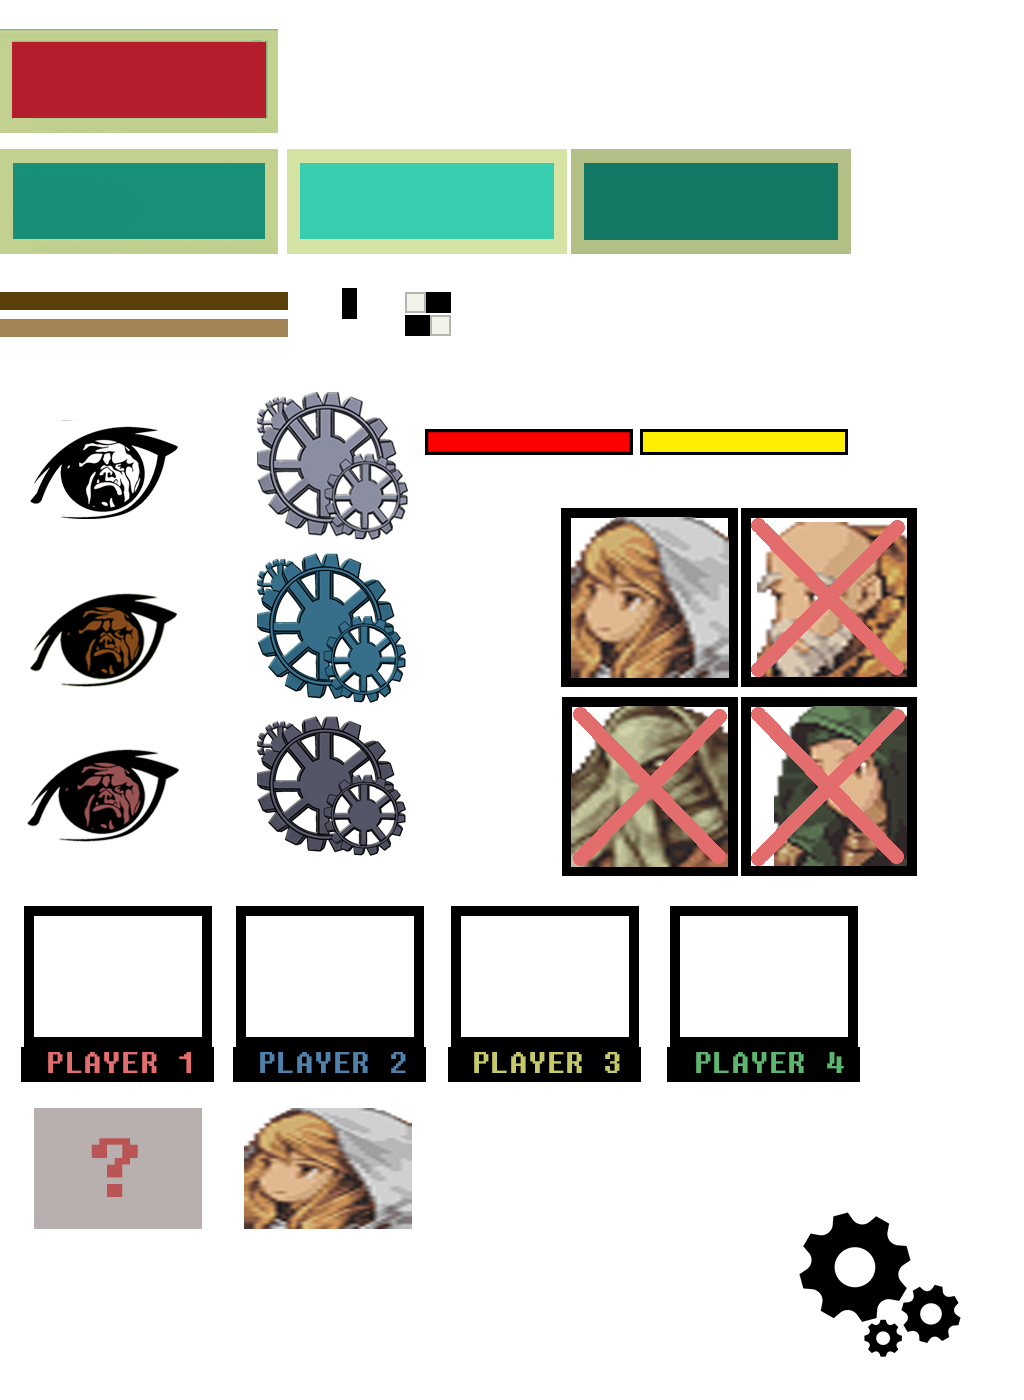
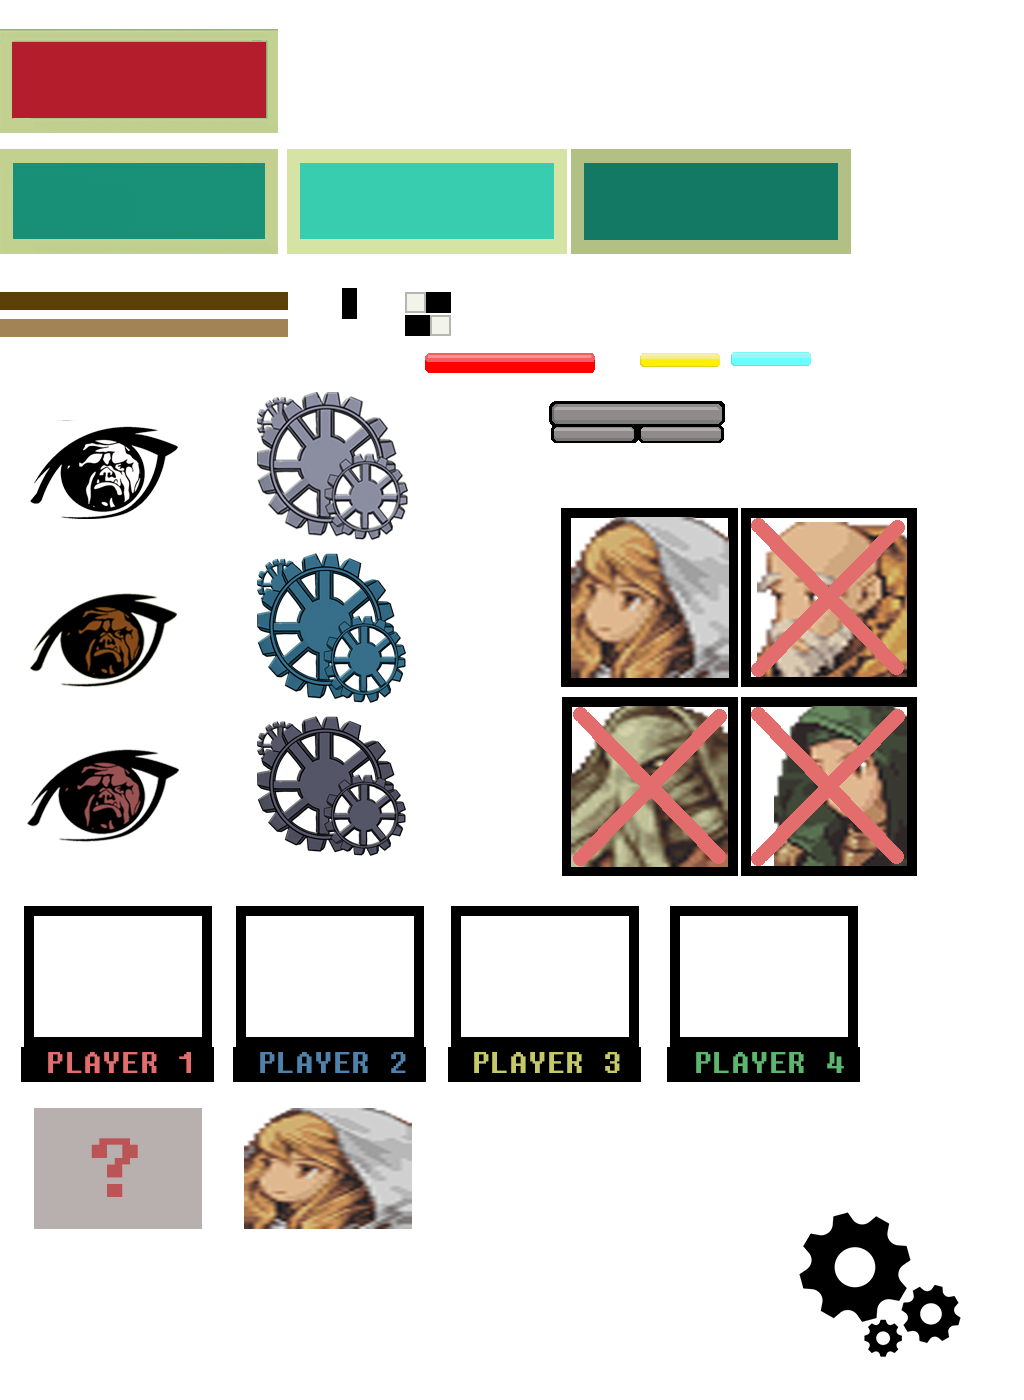
Added new UI art for bars + added shield bar

Changed region(s): [[0.4062, 0.2457, 0.8438, 0.3379]]

diff --git a/FantasyBrawl_Project/Motor2D/j1UIScene.cpp b/FantasyBrawl_Project/Motor2D/j1UIScene.cpp
@@ -130,33 +130,95 @@ bool j1UIScene::Start()
 
 	menu* ingameMenu = new menu(INGAME_MENU);
 	{
-		UI_element* hp_bar_player1 = App->gui->createImageFromAtlas(App->scene->player1->Entityinfo.position.x, App->scene->player1->Entityinfo.position.y,  {424, 428, 209, 27}, this);
+		//player1
+		UI_element* hp_bar_player1 = App->gui->createImageFromAtlas(App->scene->player1->Entityinfo.position.x, App->scene->player1->Entityinfo.position.y,  {424, 352, 171, 21}, this);
 		hp_bar1 = hp_bar_player1;
 
-		UI_element* sp_bar_player1 = App->gui->createImageFromAtlas(App->scene->player1->Entityinfo.position.x, App->scene->player1->Entityinfo.position.y, { 639, 428, 212, 27 }, this);
+		UI_element* sp_bar_player1 = App->gui->createImageFromAtlas(App->scene->player1->Entityinfo.position.x, App->scene->player1->Entityinfo.position.y, { 639, 352, 81, 21 }, this);
 		sp_bar1 = sp_bar_player1;
 
-		UI_element* hp_bar_player2 = App->gui->createImageFromAtlas(App->scene->player2->Entityinfo.position.x, App->scene->player2->Entityinfo.position.y, { 424, 428, 209, 27 }, this);
+		UI_element* shield_bar_player1 = App->gui->createImageFromAtlas(App->scene->player1->Entityinfo.position.x, App->scene->player1->Entityinfo.position.y, { 730, 351, 81, 21 }, this);
+		shield_bar1 = shield_bar_player1;
+
+		UI_element* hp_capsule_bar1 = App->gui->createImageFromAtlas(App->scene->player1->Entityinfo.position.x, App->scene->player1->Entityinfo.position.y, { 548, 400, 177, 25 }, this);
+		hp_capsule1 = hp_capsule_bar1;
+
+		UI_element* sp_capsule_bar1 = App->gui->createImageFromAtlas(App->scene->player1->Entityinfo.position.x, App->scene->player1->Entityinfo.position.y, { 550, 426, 88, 17 }, this);
+		sp_capsule1 = sp_capsule_bar1;
+
+		UI_element* shield_capsule_bar1 = App->gui->createImageFromAtlas(App->scene->player1->Entityinfo.position.x, App->scene->player1->Entityinfo.position.y, { 638, 426, 86, 17 }, this);
+		shield_capsule1 = shield_capsule_bar1;
+
+		//player2
+		UI_element* hp_bar_player2 = App->gui->createImageFromAtlas(App->scene->player2->Entityinfo.position.x, App->scene->player2->Entityinfo.position.y, { 424, 352, 171, 21 }, this);
 		hp_bar2 = hp_bar_player2;
 
-		UI_element* sp_bar_player2 = App->gui->createImageFromAtlas(App->scene->player2->Entityinfo.position.x, App->scene->player2->Entityinfo.position.y, { 639, 428, 212, 27 }, this);
+		UI_element* sp_bar_player2 = App->gui->createImageFromAtlas(App->scene->player2->Entityinfo.position.x, App->scene->player2->Entityinfo.position.y, { 639, 352, 81, 21 }, this);
 		sp_bar2 = sp_bar_player2;
 
+		UI_element* shield_bar_player2 = App->gui->createImageFromAtlas(App->scene->player2->Entityinfo.position.x, App->scene->player1->Entityinfo.position.y, { 730, 351, 81, 21 }, this);
+		shield_bar2 = shield_bar_player2;
 
-		UI_element* hp_bar_player3 = App->gui->createImageFromAtlas(App->scene->player3->Entityinfo.position.x, App->scene->player3->Entityinfo.position.y, { 424, 428, 209, 27 }, this);
+		UI_element* hp_capsule_bar2 = App->gui->createImageFromAtlas(App->scene->player2->Entityinfo.position.x, App->scene->player2->Entityinfo.position.y, { 548, 400, 177, 25 }, this);
+		hp_capsule2 = hp_capsule_bar2;
+
+		UI_element* sp_capsule_bar2 = App->gui->createImageFromAtlas(App->scene->player2->Entityinfo.position.x, App->scene->player1->Entityinfo.position.y, { 550, 426, 88, 17 }, this);
+		sp_capsule2 = sp_capsule_bar2;
+
+		UI_element* shield_capsule_bar2 = App->gui->createImageFromAtlas(App->scene->player2->Entityinfo.position.x, App->scene->player1->Entityinfo.position.y, { 638, 426, 86, 17 }, this);
+		shield_capsule2 = shield_capsule_bar2;
+
+		//player3
+		UI_element* hp_bar_player3 = App->gui->createImageFromAtlas(App->scene->player3->Entityinfo.position.x, App->scene->player3->Entityinfo.position.y, { 424, 352, 171, 21 }, this);
 		hp_bar3 = hp_bar_player3;
 
-		UI_element* sp_bar_player3 = App->gui->createImageFromAtlas(App->scene->player3->Entityinfo.position.x, App->scene->player3->Entityinfo.position.y, { 639, 428, 212, 27 }, this);
+		UI_element* sp_bar_player3 = App->gui->createImageFromAtlas(App->scene->player3->Entityinfo.position.x, App->scene->player3->Entityinfo.position.y, { 639, 352, 81, 21 }, this);
 		sp_bar3 = sp_bar_player3;
 
-		UI_element* hp_bar_player4 = App->gui->createImageFromAtlas(App->scene->player4->Entityinfo.position.x, App->scene->player4->Entityinfo.position.y, { 424, 428, 209, 27 }, this);
+		UI_element* shield_bar_player3 = App->gui->createImageFromAtlas(App->scene->player3->Entityinfo.position.x, App->scene->player1->Entityinfo.position.y, { 730, 351, 81, 21 }, this);
+		shield_bar3 = shield_bar_player3;
+
+		UI_element* hp_capsule_bar3 = App->gui->createImageFromAtlas(App->scene->player3->Entityinfo.position.x, App->scene->player3->Entityinfo.position.y, { 548, 400, 177, 25 }, this);
+		hp_capsule3 = hp_capsule_bar3;
+
+		UI_element* sp_capsule_bar3 = App->gui->createImageFromAtlas(App->scene->player3->Entityinfo.position.x, App->scene->player1->Entityinfo.position.y, { 550, 426, 88, 17 }, this);
+		sp_capsule3 = sp_capsule_bar3;
+
+		UI_element* shield_capsule_bar3 = App->gui->createImageFromAtlas(App->scene->player3->Entityinfo.position.x, App->scene->player1->Entityinfo.position.y, { 638, 426, 86, 17 }, this);
+		shield_capsule3 = shield_capsule_bar3;
+
+		//player4
+		UI_element* hp_bar_player4 = App->gui->createImageFromAtlas(App->scene->player4->Entityinfo.position.x, App->scene->player4->Entityinfo.position.y, { 424, 352, 171, 21 }, this);
 		hp_bar4 = hp_bar_player4;
 
-		UI_element* sp_bar_player4 = App->gui->createImageFromAtlas(App->scene->player4->Entityinfo.position.x, App->scene->player4->Entityinfo.position.y, { 639, 428, 212, 27 }, this);
+		UI_element* sp_bar_player4 = App->gui->createImageFromAtlas(App->scene->player4->Entityinfo.position.x, App->scene->player4->Entityinfo.position.y, { 639, 352, 81, 21 }, this);
 		sp_bar4 = sp_bar_player4;
 
+		UI_element* shield_bar_player4 = App->gui->createImageFromAtlas(App->scene->player4->Entityinfo.position.x, App->scene->player1->Entityinfo.position.y, { 730, 351, 81, 21 }, this);
+		shield_bar4 = shield_bar_player4;
+
+		UI_element* hp_capsule_bar4 = App->gui->createImageFromAtlas(App->scene->player4->Entityinfo.position.x, App->scene->player4->Entityinfo.position.y, { 548, 400, 177, 25 }, this);
+		hp_capsule4 = hp_capsule_bar4;
+
+		UI_element* sp_capsule_bar4 = App->gui->createImageFromAtlas(App->scene->player4->Entityinfo.position.x, App->scene->player1->Entityinfo.position.y, { 550, 426, 88, 17 }, this);
+		sp_capsule4 = sp_capsule_bar4;
+
+		UI_element* shield_capsule_bar4 = App->gui->createImageFromAtlas(App->scene->player4->Entityinfo.position.x, App->scene->player1->Entityinfo.position.y, { 638, 426, 86, 17 }, this);
+		shield_capsule4 = shield_capsule_bar4;
 		
 
+		ingameMenu->elements.push_back(hp_capsule_bar1);
+		ingameMenu->elements.push_back(hp_capsule_bar2);
+		ingameMenu->elements.push_back(hp_capsule_bar3);
+		ingameMenu->elements.push_back(hp_capsule_bar4);
+		ingameMenu->elements.push_back(sp_capsule_bar1);
+		ingameMenu->elements.push_back(sp_capsule_bar2);
+		ingameMenu->elements.push_back(sp_capsule_bar3);
+		ingameMenu->elements.push_back(sp_capsule_bar4);
+		ingameMenu->elements.push_back(shield_capsule_bar1);
+		ingameMenu->elements.push_back(shield_capsule_bar2);
+		ingameMenu->elements.push_back(shield_capsule_bar3);
+		ingameMenu->elements.push_back(shield_capsule_bar4);
 		ingameMenu->elements.push_back(hp_bar_player1);
 		ingameMenu->elements.push_back(hp_bar_player2);
 		ingameMenu->elements.push_back(hp_bar_player3);
@@ -165,6 +227,10 @@ bool j1UIScene::Start()
 		ingameMenu->elements.push_back(sp_bar_player2);
 		ingameMenu->elements.push_back(sp_bar_player3);
 		ingameMenu->elements.push_back(sp_bar_player4);
+		ingameMenu->elements.push_back(shield_bar_player1);
+		ingameMenu->elements.push_back(shield_bar_player2);
+		ingameMenu->elements.push_back(shield_bar_player3);
+		ingameMenu->elements.push_back(shield_bar_player4);
 		menus.push_back(ingameMenu);
 
 	}
@@ -392,7 +458,37 @@ bool j1UIScene::Update(float dt)
 	{
 		App->on_GamePause = true;
 	}
-		
+	
+	//UPDATING HP CAPSULES POSITION
+	hp_capsule1->localPosition.x = App->scene->player1->Entityinfo.position.x - (int)(App->scene->player1->Entityinfo.entitycoll->rect.w * 4.25f  * scale) -3;
+	hp_capsule1->localPosition.y = App->scene->player1->Entityinfo.position.y - 103;
+	hp_capsule2->localPosition.x = App->scene->player2->Entityinfo.position.x - (int)(App->scene->player2->Entityinfo.entitycoll->rect.w * 4.25f  * scale) -3;
+	hp_capsule2->localPosition.y = App->scene->player2->Entityinfo.position.y - 103;
+	hp_capsule3->localPosition.x = App->scene->player3->Entityinfo.position.x - (int)(App->scene->player3->Entityinfo.entitycoll->rect.w * 4.25f  * scale) -3;
+	hp_capsule3->localPosition.y = App->scene->player3->Entityinfo.position.y - 103;
+	hp_capsule4->localPosition.x = App->scene->player4->Entityinfo.position.x - (int)(App->scene->player4->Entityinfo.entitycoll->rect.w * 4.25f  * scale) -3;
+	hp_capsule4->localPosition.y = App->scene->player4->Entityinfo.position.y - 103;
+
+	//UPDATING SP CAPSULES POSITION
+	sp_capsule1->localPosition.x = App->scene->player1->Entityinfo.position.x - (int)(App->scene->player1->Entityinfo.entitycoll->rect.w * 4.25f  * scale) -4;
+	sp_capsule1->localPosition.y = App->scene->player1->Entityinfo.position.y - 78;
+	sp_capsule2->localPosition.x = App->scene->player2->Entityinfo.position.x - (int)(App->scene->player2->Entityinfo.entitycoll->rect.w * 4.25f  * scale) - 4;
+	sp_capsule2->localPosition.y = App->scene->player2->Entityinfo.position.y - 78;
+	sp_capsule3->localPosition.x = App->scene->player3->Entityinfo.position.x - (int)(App->scene->player3->Entityinfo.entitycoll->rect.w * 4.25f  * scale) - 4;
+	sp_capsule3->localPosition.y = App->scene->player3->Entityinfo.position.y - 78;
+	sp_capsule4->localPosition.x = App->scene->player4->Entityinfo.position.x - (int)(App->scene->player4->Entityinfo.entitycoll->rect.w * 4.25f  * scale) - 4;
+	sp_capsule4->localPosition.y = App->scene->player4->Entityinfo.position.y - 78;
+
+	//UPDATING SHIELD CAPSULES POSITION
+	shield_capsule1->localPosition.x = App->scene->player1->Entityinfo.position.x - (int)(App->scene->player1->Entityinfo.entitycoll->rect.w * 4.25f  * scale) + 84;
+	shield_capsule1->localPosition.y = App->scene->player1->Entityinfo.position.y - 78;
+	shield_capsule2->localPosition.x = App->scene->player2->Entityinfo.position.x - (int)(App->scene->player2->Entityinfo.entitycoll->rect.w * 4.25f  * scale) + 84;
+	shield_capsule2->localPosition.y = App->scene->player2->Entityinfo.position.y - 78;
+	shield_capsule3->localPosition.x = App->scene->player3->Entityinfo.position.x - (int)(App->scene->player3->Entityinfo.entitycoll->rect.w * 4.25f  * scale) + 84;
+	shield_capsule3->localPosition.y = App->scene->player3->Entityinfo.position.y - 78;
+	shield_capsule4->localPosition.x = App->scene->player4->Entityinfo.position.x - (int)(App->scene->player4->Entityinfo.entitycoll->rect.w * 4.25f  * scale) + 84;
+	shield_capsule4->localPosition.y = App->scene->player4->Entityinfo.position.y - 78;
+
 	//UPDATING HP BARS POSITION
 	hp_bar1->localPosition.x = App->scene->player1->Entityinfo.position.x - (int)(App->scene->player1->Entityinfo.entitycoll->rect.w * 4.25f  * scale);
 	hp_bar1->localPosition.y = App->scene->player1->Entityinfo.position.y - 100;				 
@@ -405,13 +501,25 @@ bool j1UIScene::Update(float dt)
 																								 
 	//UPDATING SP BARS POSITION																	 
 	sp_bar1->localPosition.x = App->scene->player1->Entityinfo.position.x - (int)(App->scene->player1->Entityinfo.entitycoll->rect.w * 4.25f  * scale);
-	sp_bar1->localPosition.y = App->scene->player1->Entityinfo.position.y - 75;				 
+	sp_bar1->localPosition.y = App->scene->player1->Entityinfo.position.y - 78;				 
 	sp_bar2->localPosition.x = App->scene->player2->Entityinfo.position.x - (int)(App->scene->player2->Entityinfo.entitycoll->rect.w * 4.25f  * scale);
-	sp_bar2->localPosition.y = App->scene->player2->Entityinfo.position.y - 75;				 
+	sp_bar2->localPosition.y = App->scene->player2->Entityinfo.position.y - 78;				 
 	sp_bar3->localPosition.x = App->scene->player3->Entityinfo.position.x - (int)(App->scene->player3->Entityinfo.entitycoll->rect.w * 4.25f  * scale);
-	sp_bar3->localPosition.y = App->scene->player3->Entityinfo.position.y - 75;				 
+	sp_bar3->localPosition.y = App->scene->player3->Entityinfo.position.y - 78;				 
 	sp_bar4->localPosition.x = App->scene->player4->Entityinfo.position.x - (int)(App->scene->player4->Entityinfo.entitycoll->rect.w * 4.25f  * scale);
-	sp_bar4->localPosition.y = App->scene->player4->Entityinfo.position.y - 75;
+	sp_bar4->localPosition.y = App->scene->player4->Entityinfo.position.y - 78;
+
+	//UPDATING SHIELD BARS POSITION																	 
+	shield_bar1->localPosition.x = App->scene->player1->Entityinfo.position.x - (int)(App->scene->player1->Entityinfo.entitycoll->rect.w * 4.25f  * scale) +87;
+	shield_bar1->localPosition.y = App->scene->player1->Entityinfo.position.y - 78;
+	shield_bar2->localPosition.x = App->scene->player2->Entityinfo.position.x - (int)(App->scene->player2->Entityinfo.entitycoll->rect.w * 4.25f  * scale) + 87;
+	shield_bar2->localPosition.y = App->scene->player2->Entityinfo.position.y - 78;
+	shield_bar3->localPosition.x = App->scene->player3->Entityinfo.position.x - (int)(App->scene->player3->Entityinfo.entitycoll->rect.w * 4.25f  * scale) + 87;
+	shield_bar3->localPosition.y = App->scene->player3->Entityinfo.position.y - 78;
+	shield_bar4->localPosition.x = App->scene->player4->Entityinfo.position.x - (int)(App->scene->player4->Entityinfo.entitycoll->rect.w * 4.25f  * scale) + 87;
+	shield_bar4->localPosition.y = App->scene->player4->Entityinfo.position.y - 78;
+
+
 	
 	if (player1_select == true)
 	{

diff --git a/FantasyBrawl_Project/Motor2D/UI_Image.cpp b/FantasyBrawl_Project/Motor2D/UI_Image.cpp
@@ -115,6 +115,95 @@ void Image::BlitElement()
 		App->view->PushQueue(10, texture, localPosition.x, localPosition.y, tmp_section,4);
 	}
 
+	else if (this == App->ui_scene->shield_bar1)
+	{
+	float time = App->scene->player1->shieldTimer.ReadSec()*20.0f;
+
+	if (time >= 5.0f*20.0f)
+	{
+		time = 5.0f*20.0f;
+	}
+
+	multiplier = (time + tmp_section.w) / (5.0f*20.0f + section.w);
+	tmp_section.w = (section.w * multiplier);
+
+	if (App->scene->player1->active)
+		App->view->PushQueue(10, texture, localPosition.x, localPosition.y, tmp_section, 1);
+	}
+
+	else if (this == App->ui_scene->shield_bar2)
+	{
+	float time = App->scene->player2->shieldTimer.ReadSec()*20.0f;
+
+	if (time >= 5.0f*20.0f)
+	{
+		time = 5.0f*20.0f;
+	}
+
+	multiplier = (time + tmp_section.w) / (5.0f*20.0f + section.w);
+	tmp_section.w = (section.w * multiplier);
+
+	if (App->scene->player2->active)
+		App->view->PushQueue(10, texture, localPosition.x, localPosition.y, tmp_section, 2);
+	}
+
+	else if (this == App->ui_scene->shield_bar3)
+	{
+	float time = App->scene->player3->shieldTimer.ReadSec()*20.0f;
+
+	if (time >= 5.0f*20.0f)
+	{
+		time = 5.0f*20.0f;
+	}
+
+	multiplier = (time + tmp_section.w) / (5.0f*20.0f + section.w);
+	tmp_section.w = (section.w * multiplier);
+
+	if (App->scene->player3->active)
+		App->view->PushQueue(10, texture, localPosition.x, localPosition.y, tmp_section, 3);
+	}
+
+	else if (this == App->ui_scene->shield_bar4)
+	{
+	float time = App->scene->player4->shieldTimer.ReadSec()*20.0f;
+
+	if (time >= 5.0f*20.0f)
+	{
+		time = 5.0f*20.0f;
+	}
+
+	multiplier = (time + tmp_section.w) / (5.0f*20.0f + section.w);
+	tmp_section.w = (section.w * multiplier);
+
+	if (App->scene->player4->active)
+		App->view->PushQueue(10, texture, localPosition.x, localPosition.y, tmp_section, 4);
+	}
+
+	else if (this == App->ui_scene-> hp_capsule1 || this == App->ui_scene->hp_capsule2 || this == App->ui_scene->hp_capsule3 || this == App->ui_scene->hp_capsule4)
+	{
+		App->view->PushQueue(9, texture, localPosition.x, localPosition.y, section, 0);
+	}
+
+	else if (this == App->ui_scene->sp_capsule1 || this == App->ui_scene->shield_capsule1)
+	{
+		App->view->PushQueue(9, texture, localPosition.x, localPosition.y, section, 1);
+	}
+
+	else if (this == App->ui_scene->sp_capsule2 || this == App->ui_scene->shield_capsule2)
+	{
+	App->view->PushQueue(9, texture, localPosition.x, localPosition.y, section, 2);
+	}
+
+	else if (this == App->ui_scene->sp_capsule3 || this == App->ui_scene->shield_capsule3)
+	{
+	App->view->PushQueue(9, texture, localPosition.x, localPosition.y, section, 3);
+	}
+
+	else if (this == App->ui_scene->sp_capsule4 || this == App->ui_scene->shield_capsule4)
+	{
+	App->view->PushQueue(9, texture, localPosition.x, localPosition.y, section, 4);
+	}
+
 	else
 		App->render->Blit(texture, globalPos.x, globalPos.y, &section);
 }

diff --git a/FantasyBrawl_Project/Motor2D/j1UIScene.h b/FantasyBrawl_Project/Motor2D/j1UIScene.h
@@ -19,7 +19,6 @@ enum menu_id
 	SETTINGS_MENU,
 	INGAME_MENU,
 	SELECTION_MENU,
-	/*PAUSE_MENU,*/
 	CREDITS_MENU,
 	FINAL_MENU
 };
@@ -95,6 +94,30 @@ public:
 	UI_element* sp_bar2 = nullptr;
 	UI_element* sp_bar3 = nullptr;
 	UI_element* sp_bar4 = nullptr;
+
+	//PLAYER SHIELD BARS
+	UI_element* shield_bar1 = nullptr;
+	UI_element* shield_bar2 = nullptr;
+	UI_element* shield_bar3 = nullptr;
+	UI_element* shield_bar4 = nullptr;
+
+	//PLAYER HP CAPSULES
+	UI_element* hp_capsule1 = nullptr;
+	UI_element* hp_capsule2 = nullptr;
+	UI_element* hp_capsule3 = nullptr;
+	UI_element* hp_capsule4 = nullptr;
+
+	//PLAYER SP CAPSULES
+	UI_element* sp_capsule1 = nullptr;
+	UI_element* sp_capsule2 = nullptr;
+	UI_element* sp_capsule3 = nullptr;
+	UI_element* sp_capsule4 = nullptr;
+
+	//PLAYER SHIELD CAPSULES
+	UI_element* shield_capsule1 = nullptr;
+	UI_element* shield_capsule2 = nullptr;
+	UI_element* shield_capsule3 = nullptr;
+	UI_element* shield_capsule4 = nullptr;
 
 	//PLAYER MARKS(?)
 	UI_element* mark1 = nullptr;
